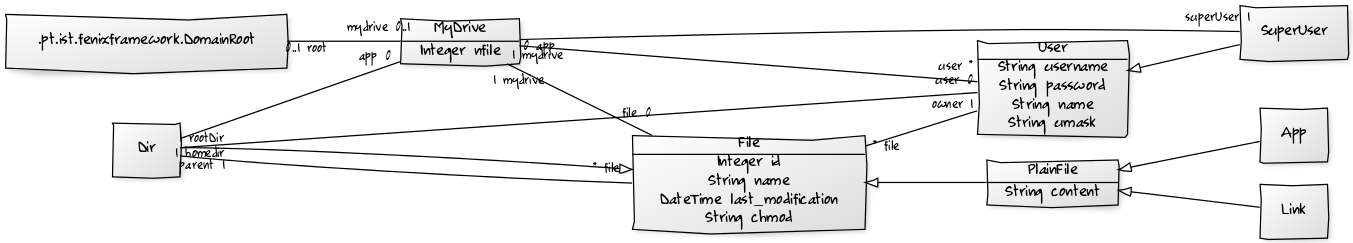
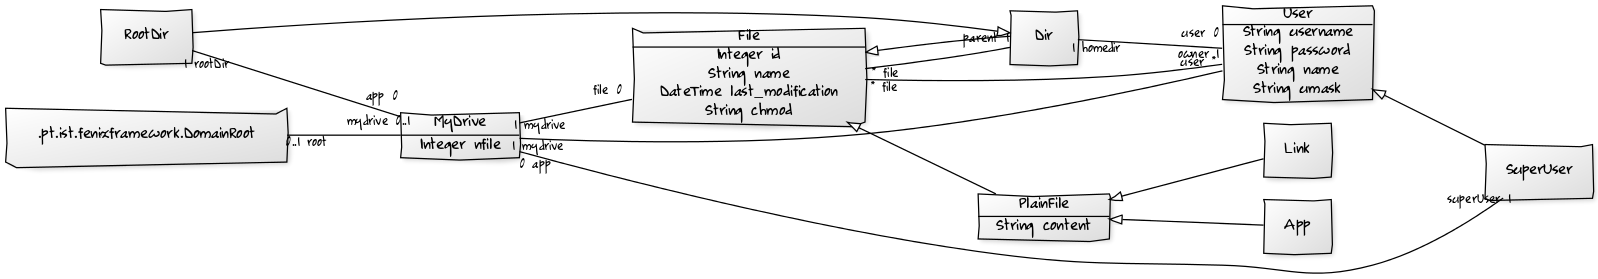
RootDir added to DML

diff --git a/src/main/java/pt/tecnico/mydrive/domain/RootDir.java b/src/main/java/pt/tecnico/mydrive/domain/RootDir.java
@@ -1,0 +1,9 @@
+package pt.tecnico.mydrive.domain;
+
+public class RootDir extends RootDir_Base {
+    
+    public RootDir() {
+        super();
+    }
+    
+}
